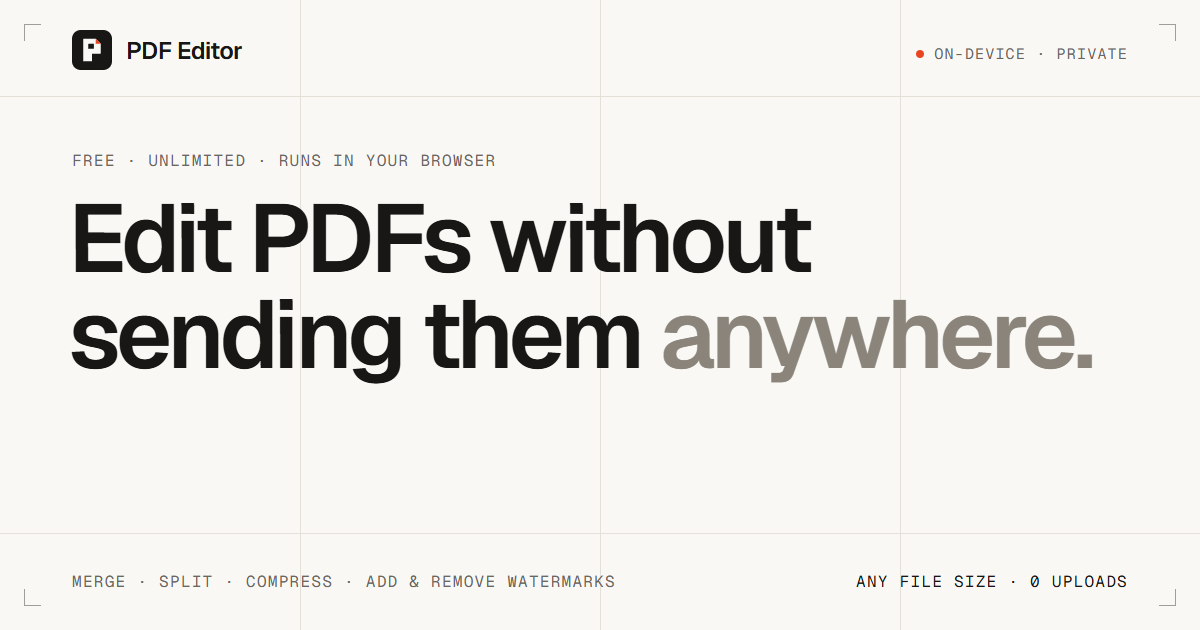
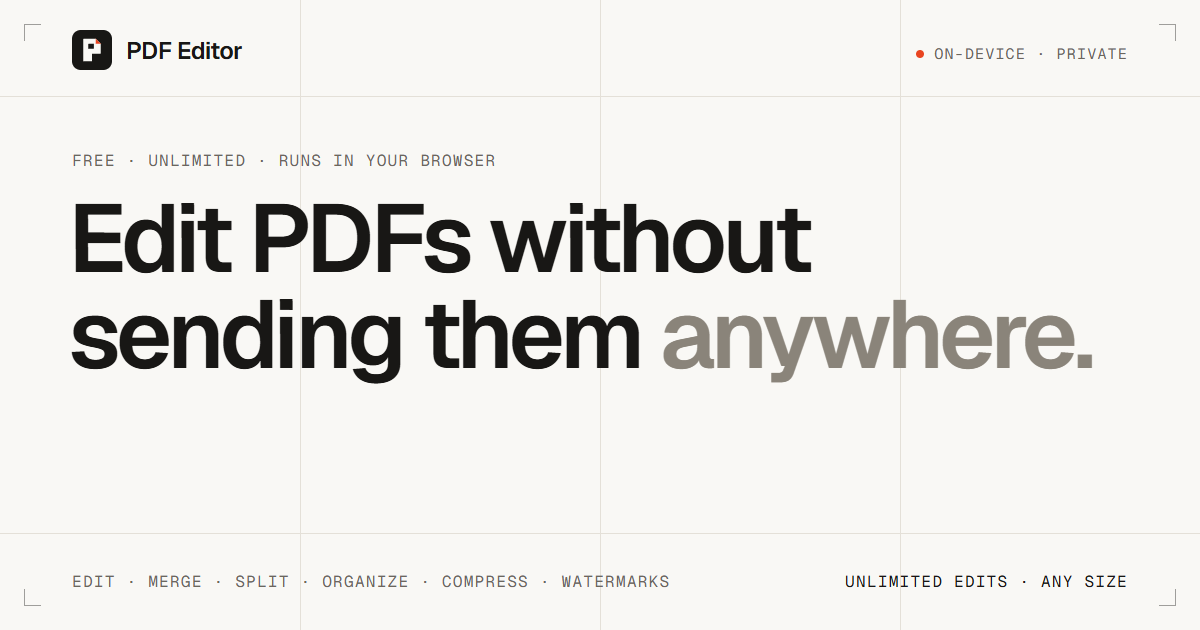
feat: update descriptions for improved clarity and remove usage stats tracking

Changed region(s): [[0.0617, 0.9048, 0.555, 0.9349], [0.7092, 0.9048, 0.9558, 0.9349]]

diff --git a/src/pages/Home.tsx b/src/pages/Home.tsx
@@ -1,4 +1,4 @@
-import { useEffect, useState, useSyncExternalStore } from "react";
+import { useEffect, useState } from "react";
 import { Link, useLocation, useNavigate } from "react-router-dom";
 import { toast } from "sonner";
 import { ArrowRight, ArrowUpRight, Loader2, X } from "lucide-react";
@@ -8,16 +8,6 @@ import { CropMarks } from "../components/brand";
 import { cn } from "../lib/utils";
 import { HOME_SEO } from "../lib/seo";
 import { useSeo } from "../lib/useSeo";
-import { getStats, onStatsChange } from "../lib/stats";
-
-// Snapshot cached by value so useSyncExternalStore sees a stable object.
-let statsCache = getStats();
-const subscribeStats = (fn: () => void) =>
-  onStatsChange(() => {
-    statsCache = getStats();
-    fn();
-  });
-const readStats = () => statsCache;
 
 type Filter = "all" | ToolCategory;
 
@@ -50,7 +40,6 @@ const Home = () => {
   const [loading, setLoading] = useState(false);
   const [dragging, setDragging] = useState(false);
   useSeo(HOME_SEO);
-  const stats = useSyncExternalStore(subscribeStats, readStats);
 
   // The header's "Tools" link points at /#tools.
   useEffect(() => {
@@ -103,15 +92,15 @@ const Home = () => {
               sending them <span className="text-muted-foreground">anywhere.</span>
             </h1>
             <p className="mt-6 max-w-[34rem] text-lg leading-relaxed text-muted-foreground">
-              Merge, split, compress, and add or remove watermarks on your own device. No file size limits, no
-              uploads, no account, and no cap on how much you edit.
+              Edit text, merge, split, organize, compress and watermark PDFs on your own device. Unlimited edits,
+              any file size, no uploads and no account.
             </p>
 
             <dl className="mt-10 grid max-w-md grid-cols-3 border-y border-border">
               {[
                 [pad(TOOLS.length), "Tools"],
                 ["∞", "File size"],
-                [pad(stats.files), "Edited here"],
+                ["∞", "Edits"],
               ].map(([value, label], i) => (
                 <div key={label} className={cn("py-4", i > 0 && "border-l border-border pl-4")}>
                   <dt className="label-mono">{label}</dt>
@@ -130,9 +119,7 @@ const Home = () => {
             </dl>
             <p className="mt-3 flex items-center gap-2 text-xs text-muted-foreground">
               <span className="h-1.5 w-1.5 rounded-full bg-brand" aria-hidden="true" />
-              {stats.files
-                ? `${formatSize(stats.bytes)} of PDFs edited on this device. 0 bytes uploaded.`
-                : "Counted on this device only. Nothing is ever uploaded."}
+              No limits on file size or how often you edit. Nothing is ever uploaded.
             </p>
           </div>
 

diff --git a/src/lib/seo.ts b/src/lib/seo.ts
@@ -21,9 +21,9 @@ export interface PageSeo {
 export const HOME_SEO: PageSeo = {
   path: "/",
   name: SITE_NAME,
-  title: "PDF Editor: free, unlimited PDF tools with no uploads",
+  title: "Free PDF editor: unlimited edits, any file size",
   description:
-    "Edit PDFs free, unlimited, any file size: merge, split, compress, crop, add or remove watermarks, or make a PDF black & white. Files never leave your device.",
+    "Edit PDF text, merge, split, organize, compress or shrink to a target size, and add or remove watermarks. Unlimited edits, any file size, no uploads.",
 };
 
 export const TOOL_SEO: PageSeo[] = [
@@ -175,7 +175,7 @@ export function renderHead(p: PageSeo, origin: string, { noindex = false } = {})
     origin ? `<meta property="og:image" content="${esc(image)}" />` : "",
     origin ? `<meta property="og:image:width" content="1200" />` : "",
     origin ? `<meta property="og:image:height" content="630" />` : "",
-    origin ? `<meta property="og:image:alt" content="${SITE_NAME}: free, unlimited PDF tools. No file size limit, no uploads." />` : "",
+    origin ? `<meta property="og:image:alt" content="${SITE_NAME}: free PDF editor with unlimited edits, any file size and no uploads." />` : "",
     `<meta name="twitter:card" content="summary_large_image" />`,
     `<meta name="twitter:title" content="${t}" />`,
     `<meta name="twitter:description" content="${d}" />`,

diff --git a/src/pages/ToolPage.tsx b/src/pages/ToolPage.tsx
@@ -23,7 +23,6 @@ import {
 import type { AreaSelection, ProgressCallback } from "../lib/pdf-operations";
 import { CATEGORIES, type ToolDef } from "../lib/tools";
 import { cn } from "../lib/utils";
-import { recordEdit } from "../lib/stats";
 import { HOME_SEO, seoForPath } from "../lib/seo";
 import { useSeo } from "../lib/useSeo";
 
@@ -74,7 +73,6 @@ export const ToolPage = ({ tool }: { tool: ToolDef }) => {
       const out = await op((page, total) => setProgress((page / total) * 100));
       const inputSize = files.reduce((n, f) => n + f.bytes.byteLength, 0);
       setResult({ files: out, inputSize });
-      recordEdit(out.length, inputSize);
       window.scrollTo({ top: 0 });
     } catch (err) {
       console.error(err);
@@ -97,7 +95,6 @@ export const ToolPage = ({ tool }: { tool: ToolDef }) => {
     setProgress(null);
     try {
       const value = await op((page, total) => setProgress((page / total) * 100));
-      recordEdit(1, files.reduce((n, f) => n + f.bytes.byteLength, 0));
       return value;
     } catch (err) {
       console.error(err);

diff --git a/index.html b/index.html
@@ -40,8 +40,8 @@
     <div id="root"></div>
     <noscript>
       <p style="font-family: system-ui, sans-serif; padding: 2rem; max-width: 40rem">
-        PDF Editor runs entirely in your browser: merge, split, compress, rotate, crop, and add or remove watermarks
-        from PDFs of any size, as often as you like, without uploading them. Please enable JavaScript to use it.
+        PDF Editor runs entirely in your browser: edit PDF text, merge, split, organize, compress, resize, and add or remove
+        watermarks, with unlimited edits on files of any size and nothing uploaded. Please enable JavaScript to use it.
       </p>
     </noscript>
     <script type="module" src="/src/main.tsx"></script>
